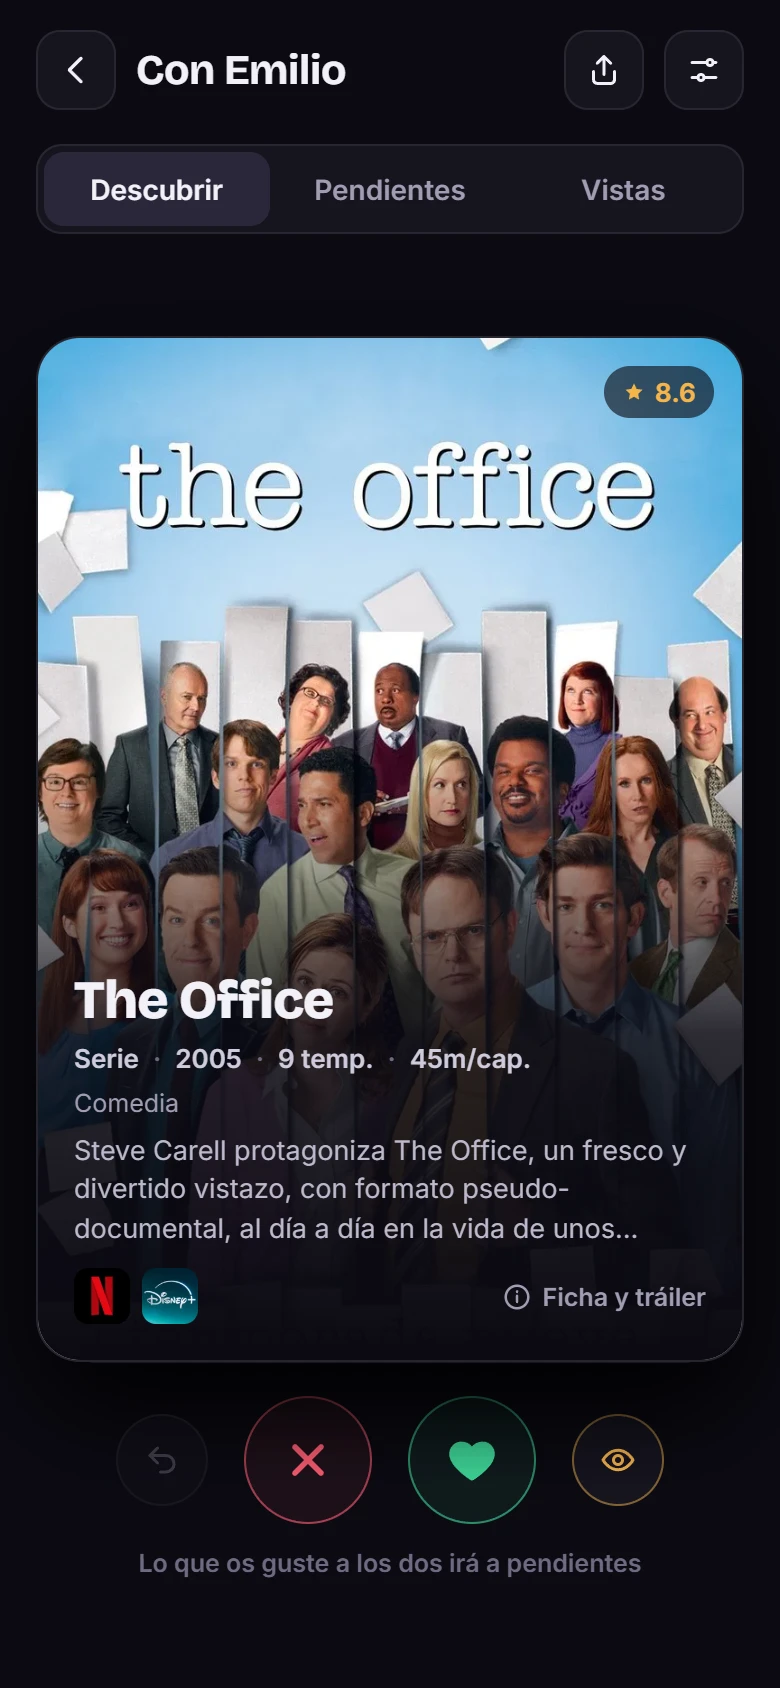
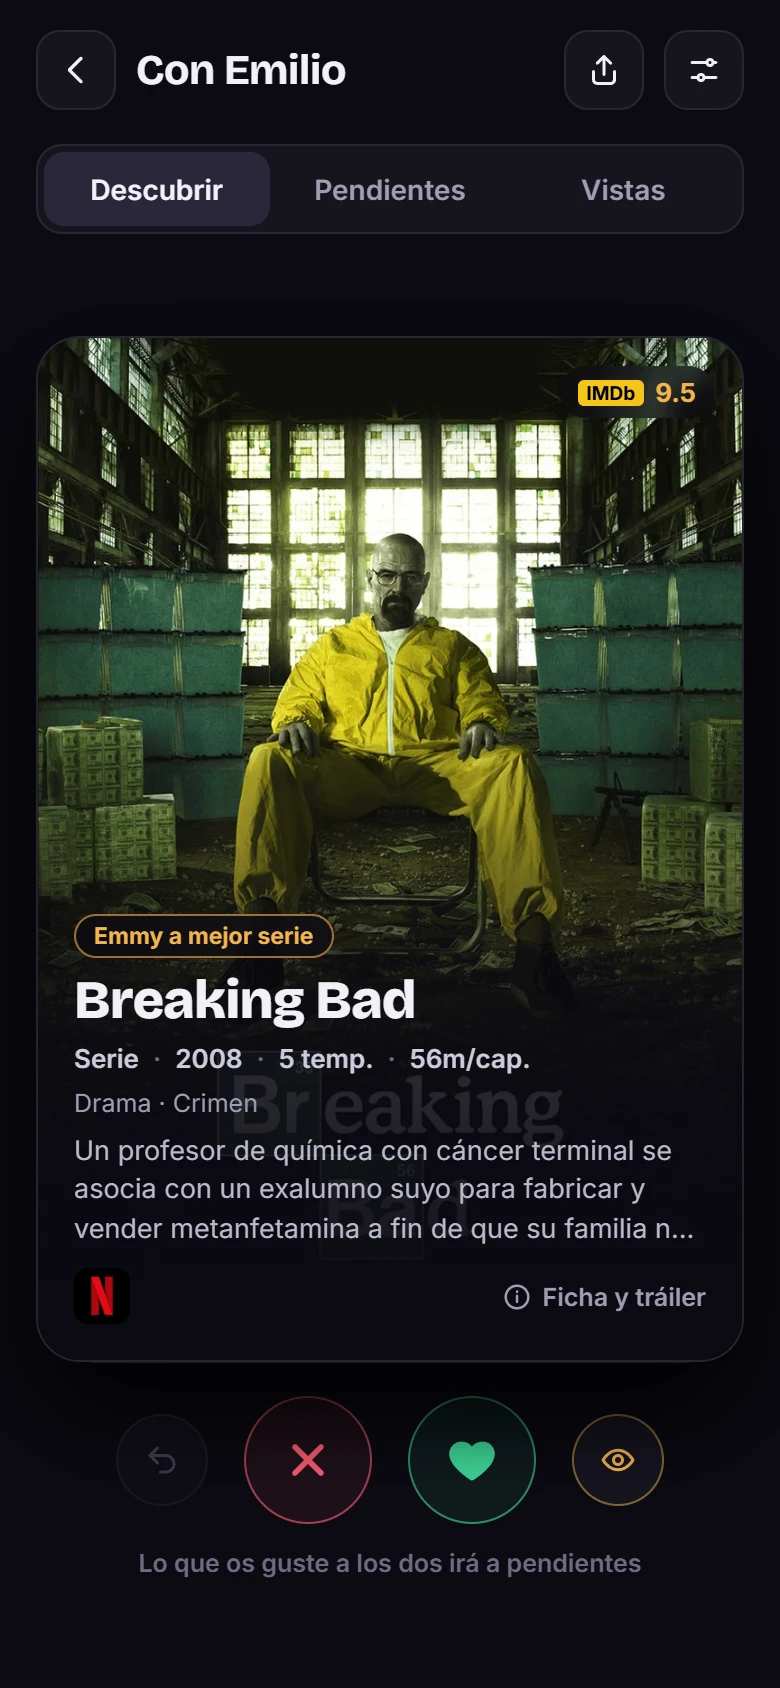
CineMatch: notas de IMDb, premios y capturas nuevas

diff --git a/index.html b/index.html
@@ -214,9 +214,11 @@
               Aplicación para decidir qué ver en pareja o en grupo: cada persona valora los mismos títulos y la app
               muestra las coincidencias. Incluye una lista compartida que se va rellenando y guarda los pendientes,
               partidas en tiempo real entre varios móviles y un modo de un solo móvil por turnos. El catálogo procede
-              de TMDB, filtrado por plataforma, género y duración, con el tráiler y la plataforma de cada título.
+              de TMDB y cada título se puntúa con la nota de IMDb, ponderada por número de votos, y con los premios
+              que recoge Wikidata. Se puede pedir una selección equilibrada, solo premiadas, joyas poco conocidas o
+              estrenos.
             </p>
-            <div class="stack"><span>React</span><span>Firebase</span><span>TMDB API</span><span>Vercel</span><span>PWA</span></div>
+            <div class="stack"><span>React</span><span>Firebase</span><span>TMDB API</span><span>IMDb</span><span>Wikidata</span><span>Vercel</span></div>
             <div class="card-links">
               <a href="https://cinematch-wine-xi.vercel.app" target="_blank" rel="noreferrer">Demo ↗</a>
               <button type="button" class="shots-link" data-shots="cinematch">Capturas →</button>
@@ -404,8 +406,8 @@
         title: 'CineMatch',
         shots: [
           { src: 'img/cinematch/1-inicio.webp', cap: 'Inicio: acceso a la lista compartida y a las partidas con uno o varios móviles.' },
-          { src: 'img/cinematch/2-descubrir.webp', cap: 'Cada persona valora los títulos deslizando la carta. Los datos y carteles proceden de TMDB.' },
-          { src: 'img/cinematch/3-ficha.webp', cap: 'Ficha de cada título con la sinopsis, el tráiler y enlace a las plataformas donde está disponible.' },
+          { src: 'img/cinematch/2-descubrir.webp', cap: 'Cada persona valora los títulos deslizando la carta. Cada carta muestra la nota de IMDb y, si lo tiene, el premio más importante.' },
+          { src: 'img/cinematch/3-ficha.webp', cap: 'Ficha de cada título con la sinopsis, los votos en IMDb, los premios, el tráiler y enlace a las plataformas donde está disponible.' },
           { src: 'img/cinematch/4-match.webp', cap: 'Cuando todos eligen el mismo título, la app lo indica en ese momento.' },
           { src: 'img/cinematch/5-pendientes.webp', cap: 'Las coincidencias se guardan en la lista de pendientes. La ruleta elige una al azar.' },
         ],

diff --git a/en/index.html b/en/index.html
@@ -215,9 +215,11 @@
               An app for deciding what to watch as a couple or a group: everyone rates the same titles and the app
               shows the matches. It includes a shared list that keeps filling up and stores what is left to watch,
               real-time sessions across several phones and a single-phone mode taking turns. The catalogue comes from
-              TMDB, filtered by platform, genre and running time, with each title's trailer and streaming service.
+              TMDB and each title is scored with its IMDb rating, weighted by number of votes, and with the awards
+              recorded in Wikidata. You can ask for a balanced selection, award winners only, lesser-known gems or new
+              releases.
             </p>
-            <div class="stack"><span>React</span><span>Firebase</span><span>TMDB API</span><span>Vercel</span><span>PWA</span></div>
+            <div class="stack"><span>React</span><span>Firebase</span><span>TMDB API</span><span>IMDb</span><span>Wikidata</span><span>Vercel</span></div>
             <div class="card-links">
               <a href="https://cinematch-wine-xi.vercel.app" target="_blank" rel="noreferrer">Demo ↗</a>
               <button type="button" class="shots-link" data-shots="cinematch">Screenshots →</button>
@@ -404,8 +406,8 @@
         title: 'CineMatch',
         shots: [
           { src: '../img/cinematch/1-inicio.webp', cap: 'Home: access to the shared list and to sessions with one or several phones.' },
-          { src: '../img/cinematch/2-descubrir.webp', cap: 'Each person rates the titles by swiping the card. Data and posters come from TMDB.' },
-          { src: '../img/cinematch/3-ficha.webp', cap: 'Each title has a page with the synopsis, the trailer and links to the services where it is available.' },
+          { src: '../img/cinematch/2-descubrir.webp', cap: 'Each person rates the titles by swiping the card. Every card shows the IMDb rating and, if there is one, its main award.' },
+          { src: '../img/cinematch/3-ficha.webp', cap: 'Each title has a page with the synopsis, IMDb votes, awards, the trailer and links to the services where it is available.' },
           { src: '../img/cinematch/4-match.webp', cap: 'When everyone picks the same title, the app shows it straight away.' },
           { src: '../img/cinematch/5-pendientes.webp', cap: 'Matches are kept in the to-watch list. The wheel picks one at random.' },
         ],
